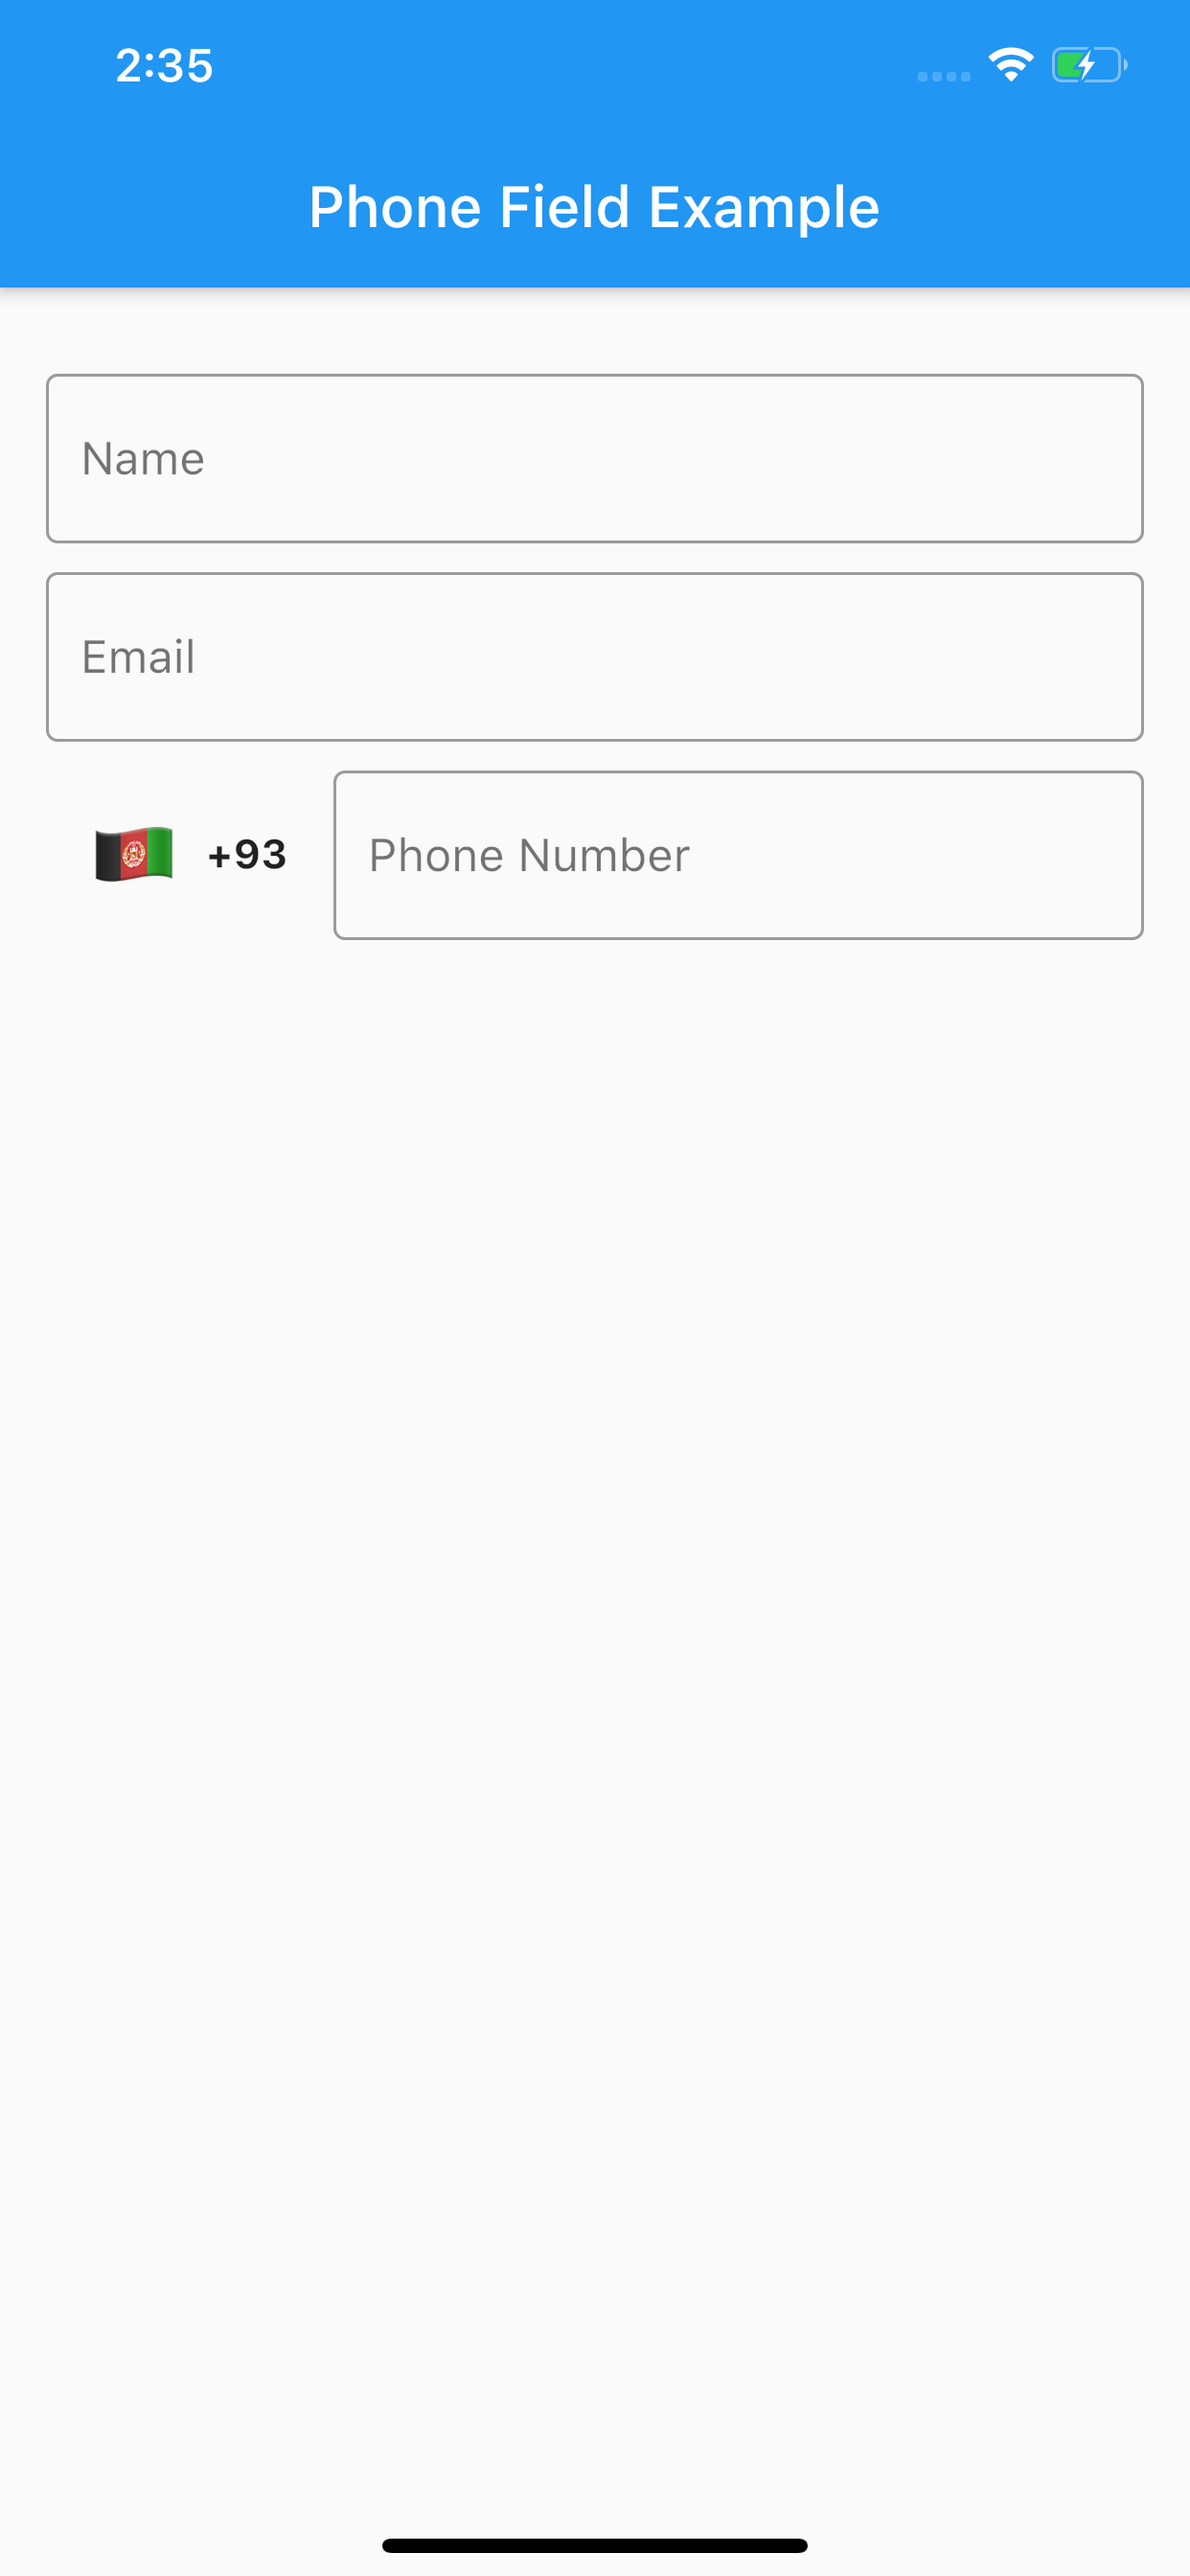
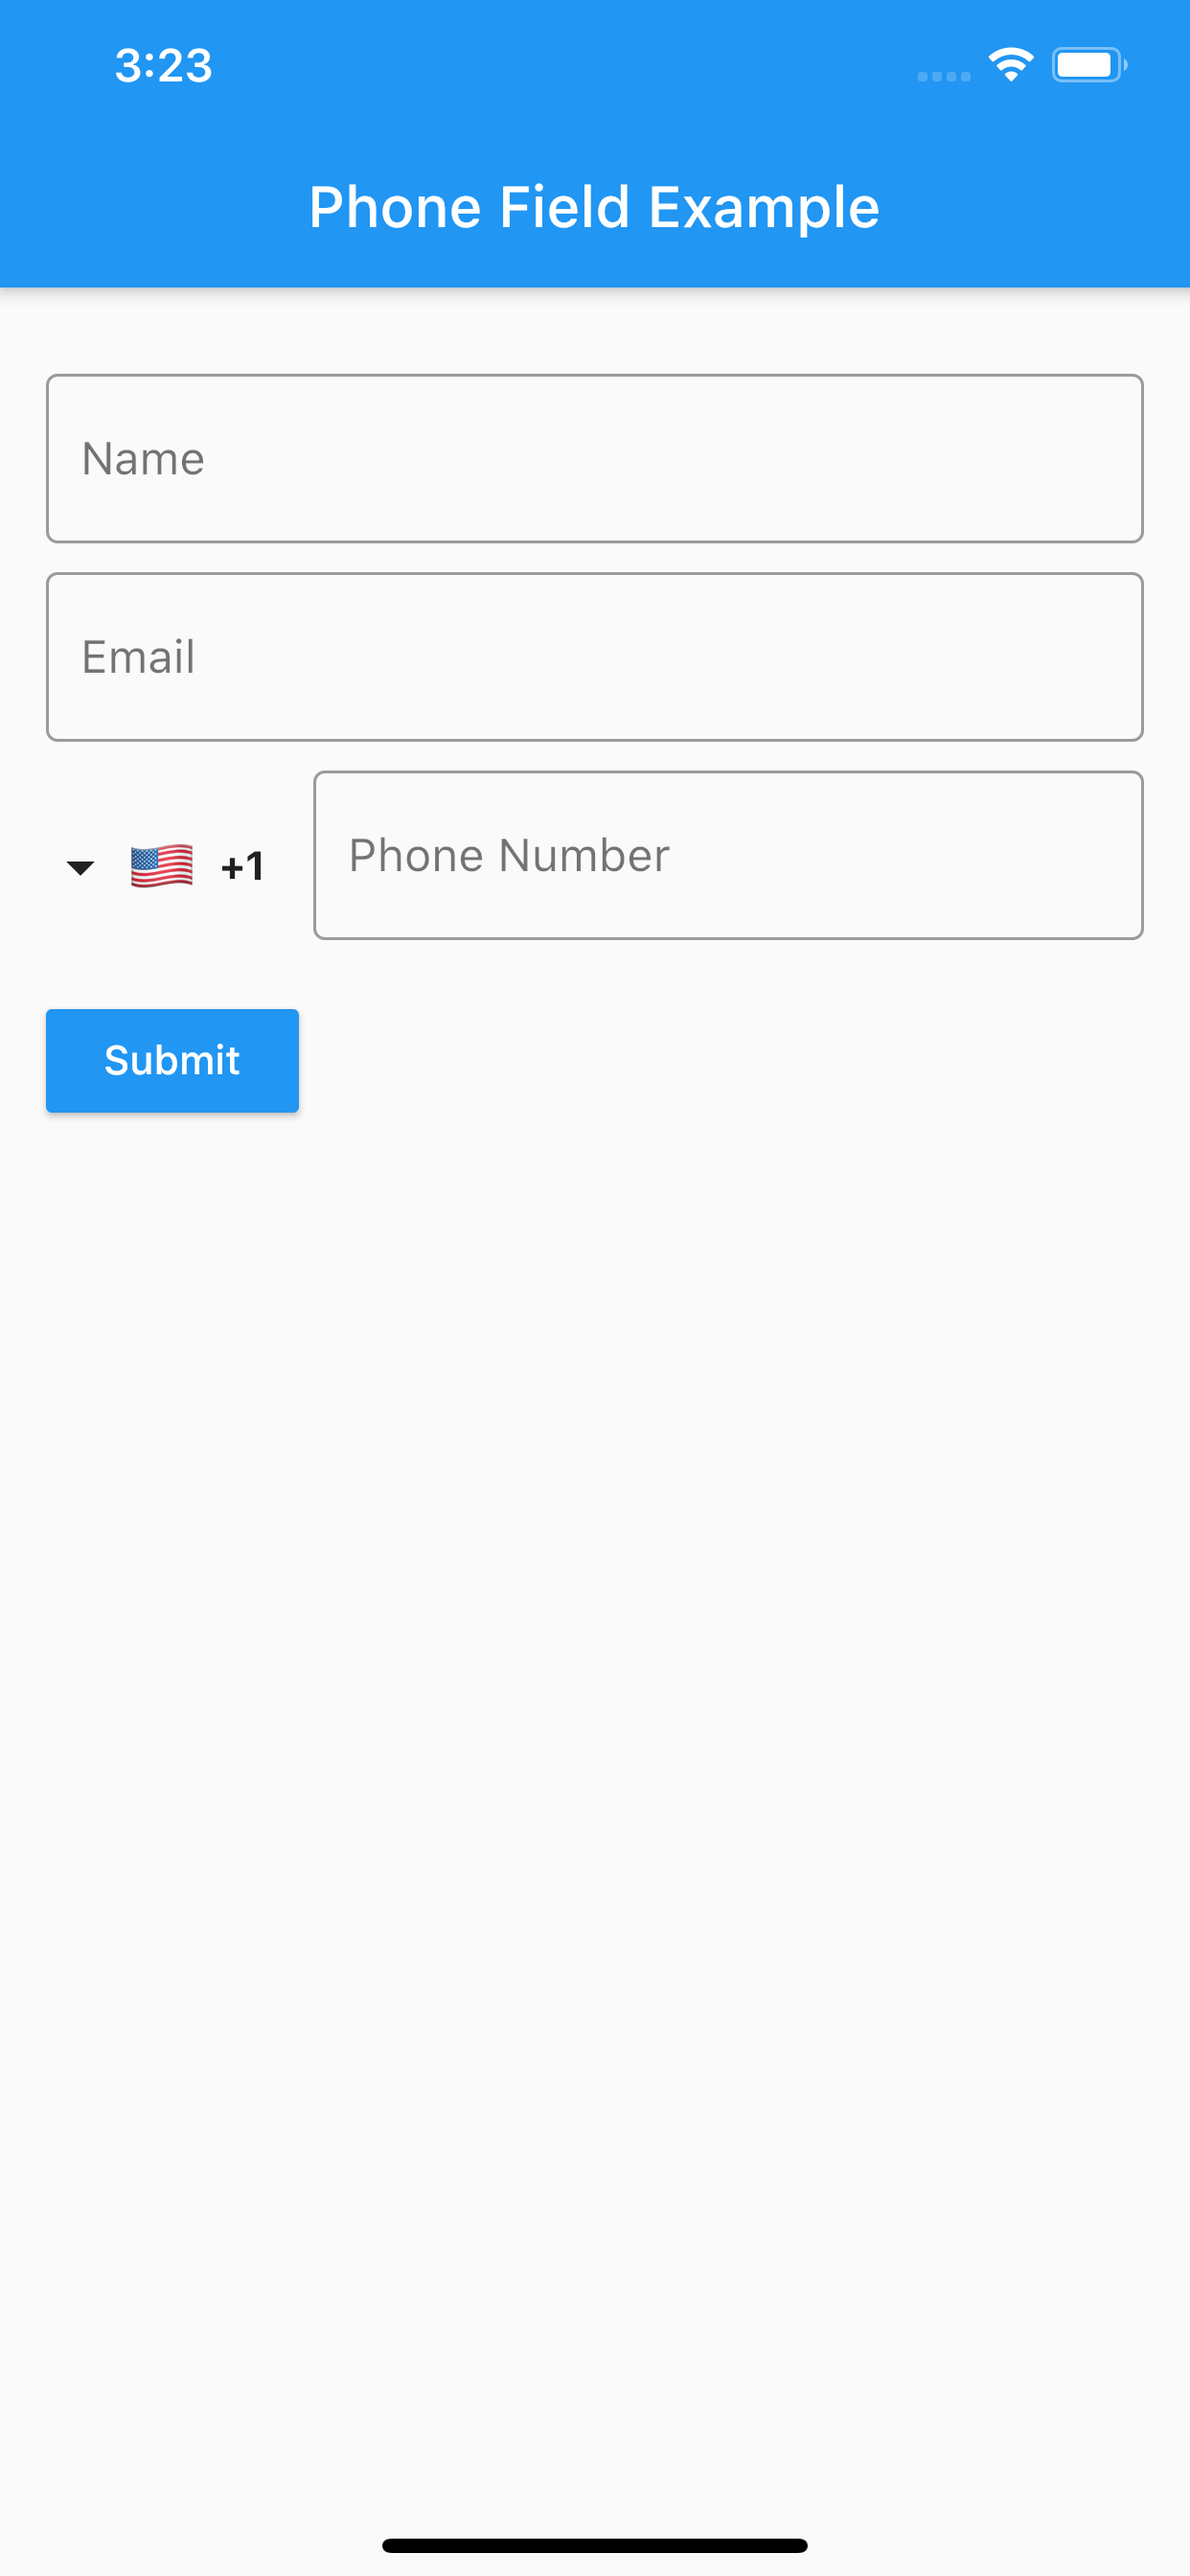
mase some fix and changes

diff --git a/lib/intl_phone_field.dart b/lib/intl_phone_field.dart
@@ -19,16 +19,18 @@ class IntlPhoneField extends StatefulWidget {
   final TextEditingController controller;
   final FocusNode focusNode;
   final void Function(String) onSubmitted;
+  final int maxLength;
+  final bool enabled;
+  final Brightness keyboardAppearance;
 
   /// 2 Letter ISO Code
   final String initialCountryCode;
   final InputDecoration decoration;
   final TextStyle style;
   final bool showDropdownIcon;
-  final String countrySearchHintText;
 
   final BoxDecoration dropdownDecoration;
-  final TextInputFormatter formatter;
+  final List<TextInputFormatter> inputFormatters;
 
   IntlPhoneField({
     this.initialCountryCode,
@@ -48,8 +50,10 @@ class IntlPhoneField extends StatefulWidget {
     this.onSaved,
     this.showDropdownIcon = true,
     this.dropdownDecoration = const BoxDecoration(),
-    this.countrySearchHintText = 'Search by Country Name',
-    this.formatter,
+    this.inputFormatters,
+    this.maxLength = 10,
+    this.enabled = true,
+    this.keyboardAppearance = Brightness.light,
   });
 
   @override
@@ -61,11 +65,11 @@ class _IntlPhoneFieldState extends State<IntlPhoneField> {
       countries.firstWhere((item) => item['code'] == 'US');
   List<Map<String, String>> filteredCountries = countries;
   FormFieldValidator<String> validator;
-  final TextInputFormatter formatter =
-      TextInputFormatter.withFunction((oldValue, newValue) {
-    if (newValue.text.length <= oldValue.text.length) return newValue;
-    return newValue.text.length > 10 ? oldValue : newValue;
-  });
+  // final TextInputFormatter formatter =
+  //     TextInputFormatter.withFunction((oldValue, newValue) {
+  //   if (newValue.text.length <= oldValue.text.length) return newValue;
+  //   return newValue.text.length > 10 ? oldValue : newValue;
+  // });
 
   @override
   void initState() {
@@ -92,7 +96,7 @@ class _IntlPhoneFieldState extends State<IntlPhoneField> {
                 TextField(
                   decoration: InputDecoration(
                     suffixIcon: Icon(Icons.search),
-                    labelText: widget.countrySearchHintText,
+                    labelText: 'Search by Country Name',
                   ),
                   onChanged: (value) {
                     setState(() {
@@ -161,7 +165,9 @@ class _IntlPhoneFieldState extends State<IntlPhoneField> {
             onFieldSubmitted: (s) {
               if (widget.onSubmitted != null) widget.onSubmitted(s);
             },
-            decoration: widget.decoration,
+            decoration: widget.decoration.copyWith(
+              counter: SizedBox(),
+            ),
             style: widget.style,
             onSaved: (value) {
               if (widget.onSaved != null)
@@ -181,7 +187,10 @@ class _IntlPhoneFieldState extends State<IntlPhoneField> {
             },
             validator: validator,
             keyboardType: widget.keyboardType,
-            inputFormatters: [widget.formatter ?? formatter],
+            inputFormatters: widget.inputFormatters,
+            maxLength: widget.maxLength,
+            enabled: widget.enabled,
+            keyboardAppearance: widget.keyboardAppearance,
           ),
         ),
       ],

diff --git a/CHANGELOG.md b/CHANGELOG.md
@@ -1,9 +1,13 @@
-## [1.1.0] - Release
+## [1.2.0] - Added more common parameters
+
+* Added some more necessary parameters available for a normal textfield.
+* Minor fixes.
+
+## [1.1.0] - Added Styling Elements
 
 * Added styling of the country selection button.
 * Added support for input formatters.
 * Minor fixes.
-
 
 ## [1.0.1] - Release
 

diff --git a/README.md b/README.md
@@ -16,7 +16,7 @@ Add the following to your `pubspec.yaml` file:
 
 ```yaml
 dependencies:
-    intl_phone_field: ^1.0.1
+    intl_phone_field: ^1.2.0
 ```
 
 ## How to Use
